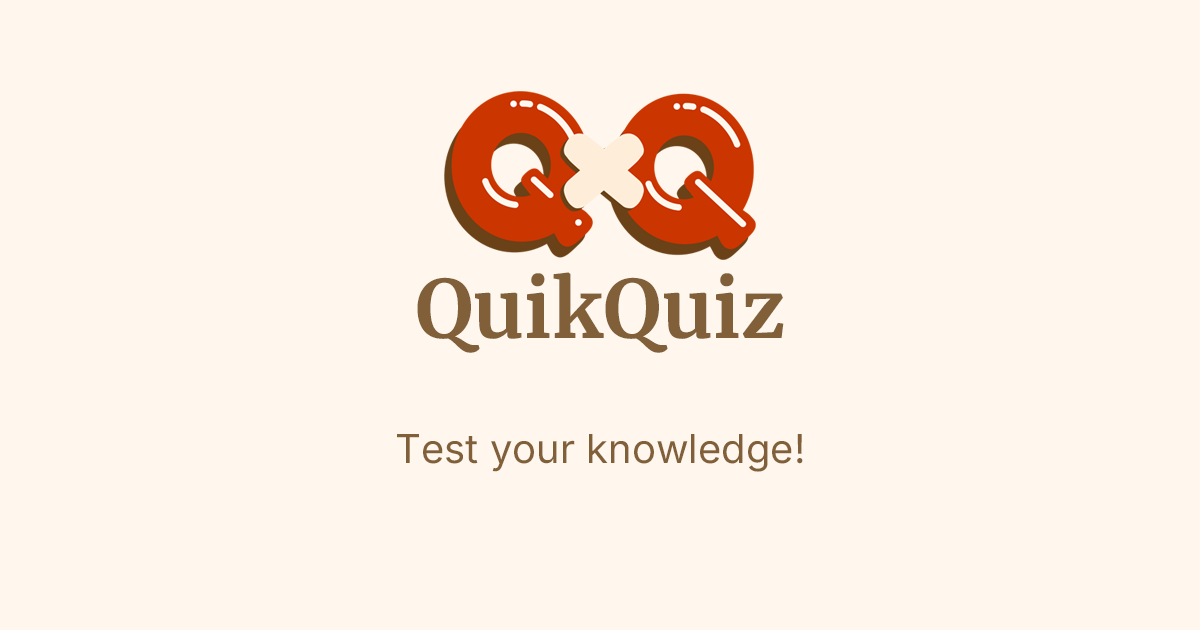
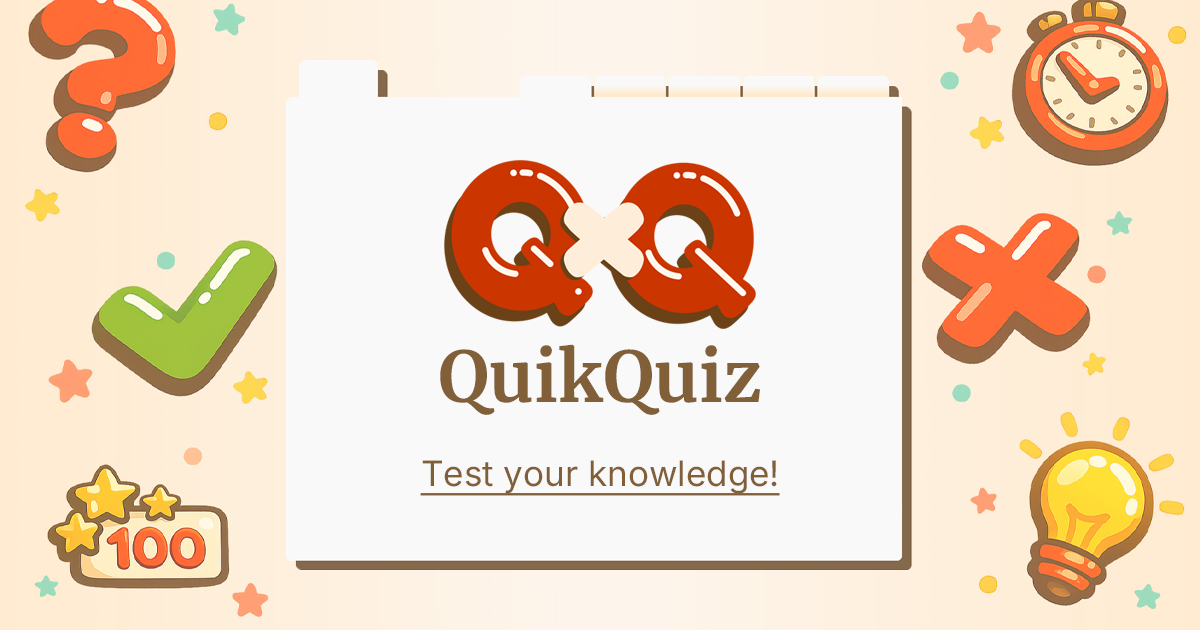
Fill the rest of meta data on all pages

diff --git a/app/how-to-play/page.tsx b/app/how-to-play/page.tsx
@@ -6,6 +6,28 @@ import { APP_NAME, LINKS } from "@/utils/constants";
 export const metadata: Metadata = {
   title: "How to Play - Rules, Scoring & Tips",
   description: `Learn how to play ${APP_NAME}: pick a category, choose a difficulty, answer 10 questions, and get instant results with score breakdown, chart stats, and wrong answers review.`,
+  openGraph: {
+    type: "website",
+    url: `${process.env.NEXT_PUBLIC_DOMAIN}${LINKS.HOW_TO_PLAY}`,
+    title: `How to Play - Rules, Scoring & Tips | ${APP_NAME}`,
+    description: `Learn how to play ${APP_NAME}: pick a category, choose a difficulty, answer 10 questions, and get instant results with score breakdown, chart stats, and wrong answers review.`,
+    siteName: APP_NAME,
+    images: [
+      {
+        url: "/og-image.png",
+        width: 1200,
+        height: 630,
+        alt: APP_NAME,
+      },
+    ],
+    locale: "en_US",
+  },
+  twitter: {
+    card: "summary_large_image",
+    title: `How to Play - Rules, Scoring & Tips | ${APP_NAME}`,
+    description: `Learn how to play ${APP_NAME}: pick a category, choose a difficulty, answer 10 questions, and get instant results with score breakdown, chart stats, and wrong answers review.`,
+    images: ["/og-image.png"],
+  },
   alternates: {
     canonical: `${process.env.NEXT_PUBLIC_DOMAIN}${LINKS.HOW_TO_PLAY}`,
   },

diff --git a/app/app-info/page.tsx b/app/app-info/page.tsx
@@ -6,6 +6,28 @@ import { APP_NAME, LINKS } from "@/utils/constants";
 export const metadata: Metadata = {
   title: "App Info",
   description: `Learn what ${APP_NAME} is, how it works, and what makes it fun - categories, difficulty levels, instant results, and a clean quiz experience built for speed and simplicity.`,
+  openGraph: {
+    type: "website",
+    url: `${process.env.NEXT_PUBLIC_DOMAIN}${LINKS.APP_INFO}`,
+    title: `App Info | ${APP_NAME}`,
+    description: `Learn what ${APP_NAME} is, how it works, and what makes it fun - categories, difficulty levels, instant results, and a clean quiz experience built for speed and simplicity.`,
+    siteName: APP_NAME,
+    images: [
+      {
+        url: "/og-image.png",
+        width: 1200,
+        height: 630,
+        alt: APP_NAME,
+      },
+    ],
+    locale: "en_US",
+  },
+  twitter: {
+    card: "summary_large_image",
+    title: `App Info | ${APP_NAME}`,
+    description: `Learn what ${APP_NAME} is, how it works, and what makes it fun - categories, difficulty levels, instant results, and a clean quiz experience built for speed and simplicity.`,
+    images: ["/og-image.png"],
+  },
   alternates: {
     canonical: `${process.env.NEXT_PUBLIC_DOMAIN}${LINKS.APP_INFO}`,
   },

diff --git a/app/quiz/[category]/page.tsx b/app/quiz/[category]/page.tsx
@@ -30,6 +30,28 @@ export async function generateMetadata({
   return {
     title: `${questionsPack.title} Quiz`,
     description: `Play the ${questionsPack.title} quiz on ${APP_NAME}. Choose a difficulty, answer 10 questions, and get instant results.`,
+    openGraph: {
+      type: "website",
+      url: `${process.env.NEXT_PUBLIC_DOMAIN}${LINKS.CATEGORIES}/${category}`,
+      title: `${questionsPack.title} Quiz | ${APP_NAME}`,
+      description: `Play the ${questionsPack.title} quiz on ${APP_NAME}. Choose a difficulty, answer 10 questions, and get instant results.`,
+      siteName: APP_NAME,
+      images: [
+        {
+          url: "/og-image.png",
+          width: 1200,
+          height: 630,
+          alt: APP_NAME,
+        },
+      ],
+      locale: "en_US",
+    },
+    twitter: {
+      card: "summary_large_image",
+      title: `${questionsPack.title} Quiz | ${APP_NAME}`,
+      description: `Play the ${questionsPack.title} quiz on ${APP_NAME}. Choose a difficulty, answer 10 questions, and get instant results.`,
+      images: ["/og-image.png"],
+    },
     alternates: {
       canonical: `${process.env.NEXT_PUBLIC_DOMAIN}${LINKS.CATEGORIES}/${category}`,
     },

diff --git a/app/quiz/page.tsx b/app/quiz/page.tsx
@@ -6,6 +6,28 @@ import { APP_NAME, LINKS } from "@/utils/constants";
 export const metadata: Metadata = {
   title: "Quiz Categories",
   description: `Browse all ${APP_NAME} categories, pick what you want to play, choose a difficulty level, and start a 10-question quiz in seconds.`,
+  openGraph: {
+    type: "website",
+    url: `${process.env.NEXT_PUBLIC_DOMAIN}${LINKS.CATEGORIES}`,
+    title: `Quiz Categories | ${APP_NAME}`,
+    description: `Browse all ${APP_NAME} categories, pick what you want to play, choose a difficulty level, and start a 10-question quiz in seconds.`,
+    siteName: APP_NAME,
+    images: [
+      {
+        url: "/og-image.png",
+        width: 1200,
+        height: 630,
+        alt: APP_NAME,
+      },
+    ],
+    locale: "en_US",
+  },
+  twitter: {
+    card: "summary_large_image",
+    title: `Quiz Categories | ${APP_NAME}`,
+    description: `Browse all ${APP_NAME} categories, pick what you want to play, choose a difficulty level, and start a 10-question quiz in seconds.`,
+    images: ["/og-image.png"],
+  },
   alternates: {
     canonical: `${process.env.NEXT_PUBLIC_DOMAIN}${LINKS.CATEGORIES}`,
   },

diff --git a/app/results/page.tsx b/app/results/page.tsx
@@ -6,6 +6,30 @@ import { APP_NAME } from "@/utils/constants";
 export const metadata: Metadata = {
   title: "Your Results",
   description: `See how you did in ${APP_NAME} - your final score, correct vs wrong breakdown, and the questions you missed. Retry the quiz or try another category.`,
+  openGraph: {
+    type: "website",
+    url: `${process.env.NEXT_PUBLIC_DOMAIN}`,
+    title: `${APP_NAME} - Test your knowledge!`,
+    description:
+      "Challenge yourself with fun quizzes across multiple categories. Answer questions, track your score, and see results instantly.",
+    siteName: APP_NAME,
+    images: [
+      {
+        url: "/og-image.png",
+        width: 1200,
+        height: 630,
+        alt: APP_NAME,
+      },
+    ],
+    locale: "en_US",
+  },
+  twitter: {
+    card: "summary_large_image",
+    title: `${APP_NAME} - Test your knowledge!`,
+    description:
+      "Challenge yourself with fun quizzes across multiple categories. Answer questions, track your score, and see results instantly.",
+    images: ["/og-image.png"],
+  },
   robots: {
     index: false,
     follow: false,

diff --git a/app/layout.tsx b/app/layout.tsx
@@ -23,7 +23,7 @@ const inter = Inter({
 
 // Meta data
 export const metadata: Metadata = {
-  metadataBase: new URL("https://vsbron-quikquiz-2026.vercel.app/"),
+  metadataBase: new URL(`${process.env.NEXT_PUBLIC_DOMAIN}`),
   title: {
     default: `${APP_NAME} - Test your knowledge!`,
     template: `%s | ${APP_NAME}`,
@@ -39,9 +39,9 @@ export const metadata: Metadata = {
     ],
     apple: [{ url: "/apple-touch-icon.png" }],
   },
-    openGraph: {
+  openGraph: {
     type: "website",
-    url: "https://vsbron-quikquiz-2026.vercel.app/",
+    url: process.env.NEXT_PUBLIC_DOMAIN,
     title: `${APP_NAME} - Test your knowledge!`,
     description:
       "Challenge yourself with fun quizzes across multiple categories. Answer questions, track your score, and see results instantly.",
